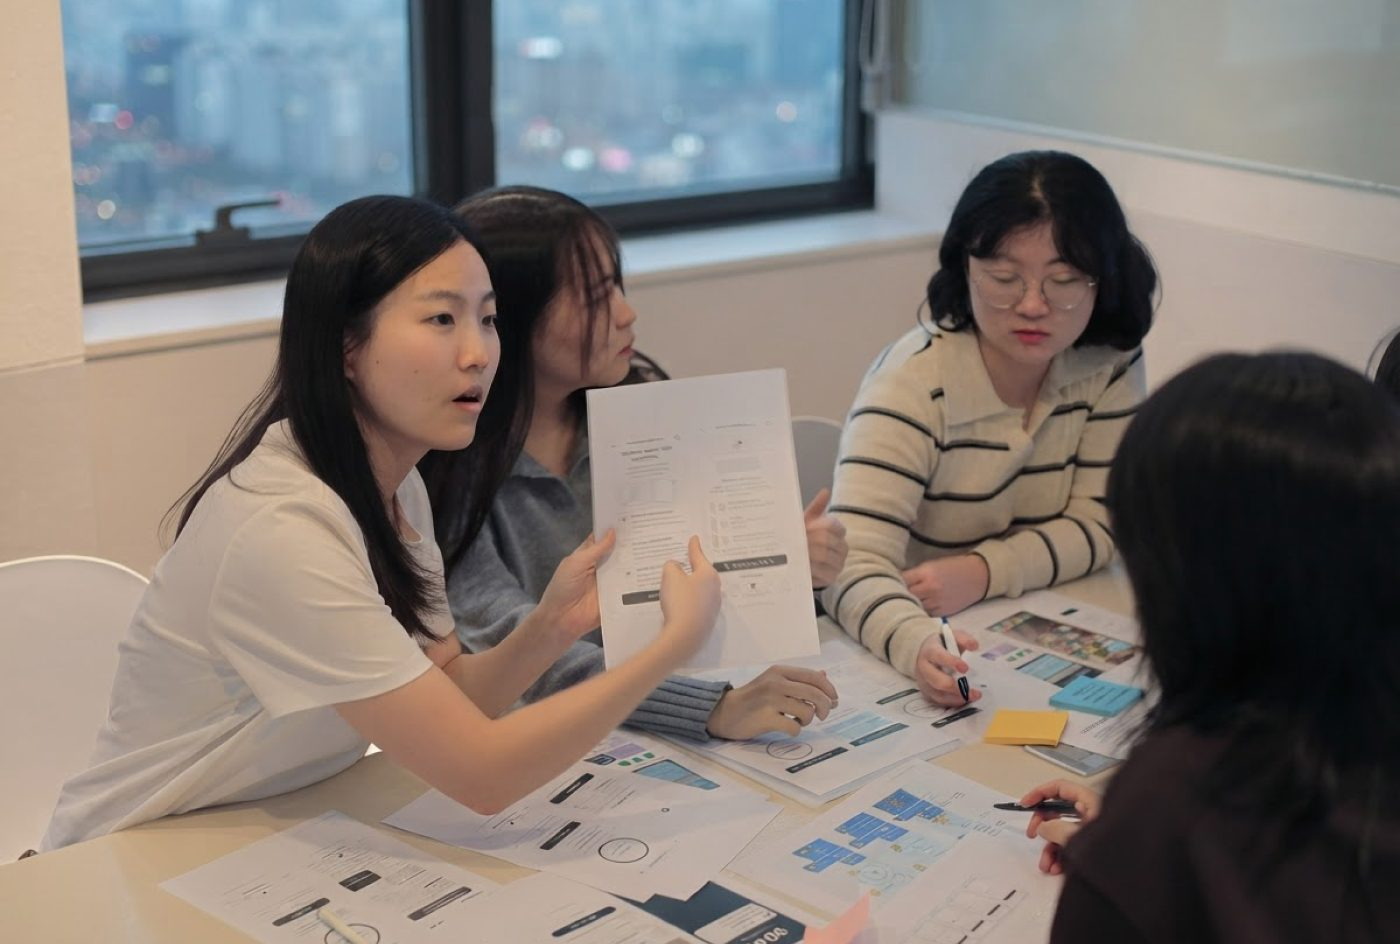
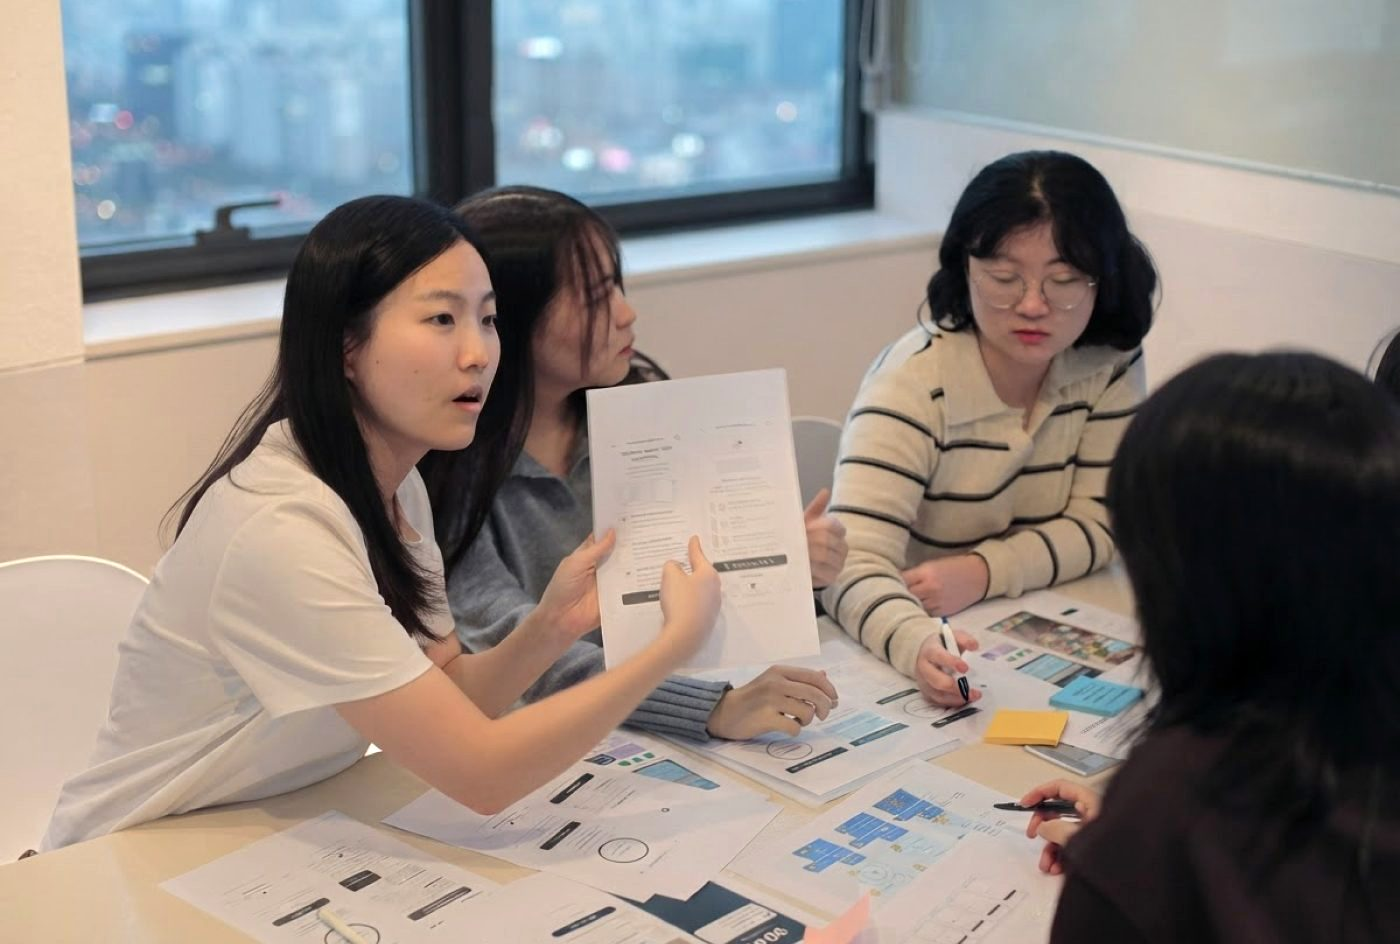
Develop: more space above workshop photos (60), sketch 3a white bg, brighter photo 2
Claude-Session: https://claude.ai/code/session_017ebhfg8efHZZFUtstcVon9

diff --git a/src/components/case/TrustBankCase.tsx b/src/components/case/TrustBankCase.tsx
@@ -732,7 +732,7 @@ function DevelopSection() {
           Our hand sketches. Ideas 1–3 answer questions 1–3 above.
         </p>
 
-        <div className="mt-[40px] grid grid-cols-1 md:grid-cols-2 gap-[40px]">
+        <div className="mt-[60px] grid grid-cols-1 md:grid-cols-2 gap-[40px]">
           <img src={IMG.workshop1} alt="Harbor sketching idea screens with her teammate" loading="lazy" className="block w-full aspect-[700/472] object-cover rounded-[20px]" />
           <img src={IMG.workshop2} alt="The team reviewing paper sketches together" loading="lazy" className="block w-full aspect-[700/472] object-cover rounded-[20px]" />
         </div>
